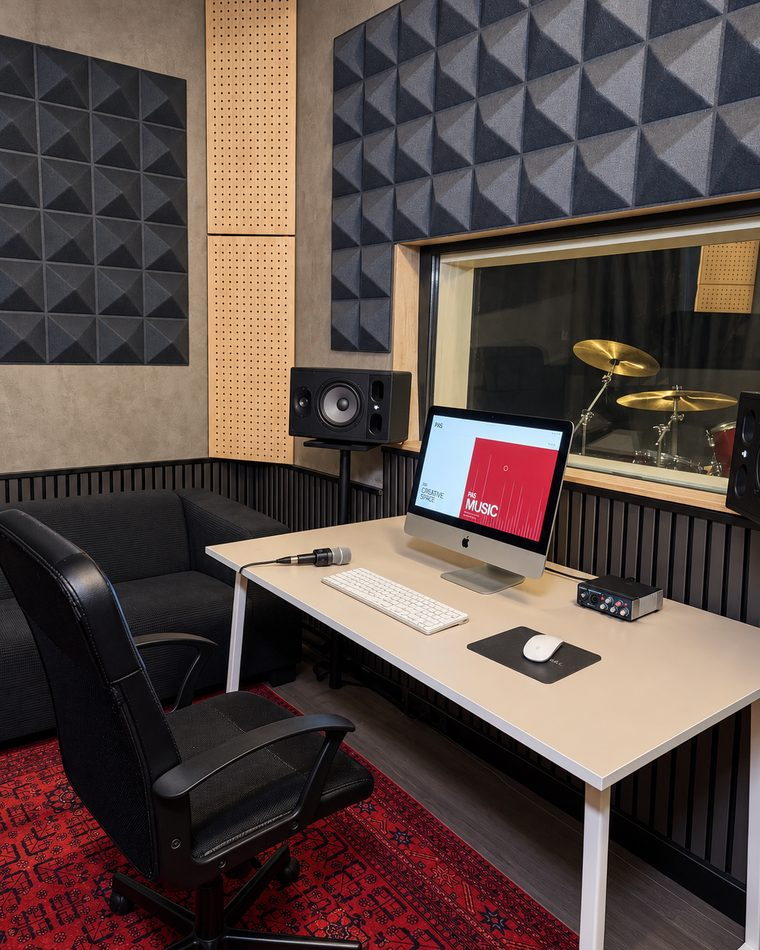
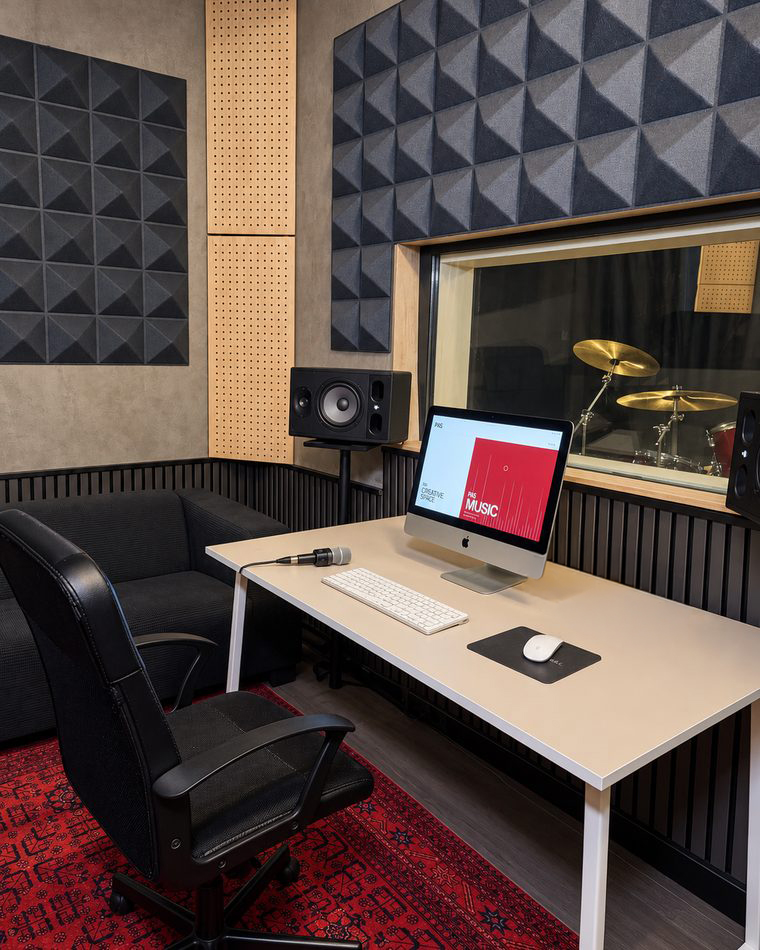
Add files via upload

Changed region(s): [[0.6961, 0.58, 0.8776, 0.6716]]

diff --git a/music/index.html b/music/index.html
@@ -123,16 +123,6 @@ section{scroll-margin-top:80px}
 .m-fig-grid img:last-child{grid-column:span 4;aspect-ratio:4/5}
 .m-fig figcaption{display:flex;justify-content:space-between;gap:20px;margin-top:12px}
 
-/* enstrüman kolajı */
-.m-collage{display:grid;grid-template-columns:repeat(12,minmax(0,1fr));gap:var(--gut);
-  margin-bottom:clamp(40px,5vw,72px)}
-.m-collage img{width:100%;height:auto;object-fit:cover;display:block}
-.m-collage img:nth-child(1){grid-column:span 7;aspect-ratio:4/3}
-.m-collage img:nth-child(2){grid-column:span 5;aspect-ratio:3/4;align-self:end}
-.m-collage img:nth-child(3),.m-collage img:nth-child(4),.m-collage img:nth-child(5){grid-column:span 4;aspect-ratio:1}
-.m-collage img:nth-child(6),.m-collage img:nth-child(7){grid-column:span 6;aspect-ratio:3/2}
-
-/* equipment */
 .m-eq-head{display:grid;grid-template-columns:repeat(12,minmax(0,1fr));column-gap:var(--gut);row-gap:14px;align-items:end;margin-bottom:clamp(32px,4vw,56px)}
 .m-eq-head .m-h2{grid-column:1/7}
 .m-eq-head p{grid-column:8/13;color:var(--mute)}
@@ -179,9 +169,6 @@ section{scroll-margin-top:80px}
   .m-fig-grid img:first-child{grid-column:1;aspect-ratio:4/3}
   .m-fig-grid img:last-child{grid-column:1;aspect-ratio:4/5}
   .m-fig figcaption{flex-direction:column;gap:4px}
-  .m-collage{grid-template-columns:repeat(2,minmax(0,1fr))}
-  .m-collage img:nth-child(n){grid-column:span 1;aspect-ratio:1}
-  .m-collage img:nth-child(1){grid-column:span 2;aspect-ratio:4/3}
   .m-ct-lines,.m-ct-side{grid-column:1/-1}
   .m-foot-grid{grid-template-columns:1fr 1fr}
   .m-ct-lines a{font-size:19px}
@@ -264,15 +251,6 @@ section{scroll-margin-top:80px}
     <div class="m-eq-head">
       <h2 class="m-h2" id="h-eq">Stüdyo Ekipmanları</h2>
       <p>Stüdyomuzda kullanılan ekipmanlar.</p>
-    </div>
-    <div class="m-collage">
-      <img src="../assets/foto/e1.jpg" width="1000" height="750" loading="lazy" alt="Yamaha Stage Custom davul seti ve ziller">
-      <img src="../assets/foto/e2.jpg" width="760" height="1013" loading="lazy" alt="Sehpada duran iki Stratocaster elektro gitar">
-      <img src="../assets/foto/e3.jpg" width="760" height="760" loading="lazy" alt="Blackstar HT Club 40 gitar amfisi">
-      <img src="../assets/foto/e4.jpg" width="760" height="760" loading="lazy" alt="Ezel Custom davul kasnakları">
-      <img src="../assets/foto/e5.jpg" width="760" height="760" loading="lazy" alt="Fender Stratocaster ve Fender '59 Bassman amfisi">
-      <img src="../assets/foto/e6.jpg" width="1000" height="666" loading="lazy" alt="Leon Cymbals ride zilleri">
-      <img src="../assets/foto/e7.jpg" width="1000" height="666" loading="lazy" alt="Davul seti ve zil kurulumu">
     </div>
     <div class="m-eq">
         <div><h3>DAVUL</h3><ul><li>Yamaha Stage Custom 22</li><li>Ezel Custom 18" Jazz Kit</li><li>Ezel Custom 22 Kit</li></ul></div>
